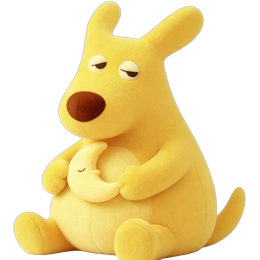
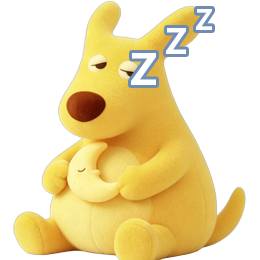
feat(skin+behavior) 1.1.1: feidudu sleep ZZZ + 修扩展帧/呼吸崩溃 + 状态机更活跃

Changed region(s): [[0.4923, 0.0, 0.8308, 0.3385]]

diff --git a/pet/window.py b/pet/window.py
@@ -38,26 +38,9 @@ class PetWindow(QWidget):
 
         self.scale = float(config.get("scale"))
 
-        # 加载所有精灵帧，缺失帧回退 idle
+        # 加载所有精灵帧（基础 + 扩展），缺失基础帧回退 idle，缺失扩展帧跳过
         self.frames: dict[str, QPixmap] = {}
-        idle = None
-        for name in FRAME_NAMES:
-            pix = self._load(f"{name}.png")
-            self.frames[name] = self._fit(pix) if not pix.isNull() else None
-            if name == "idle":
-                idle = self.frames["idle"]
-        if idle is None:
-            idle = QPixmap(120, 120)
-            idle.fill(Qt.GlobalColor.transparent)
-            self.frames["idle"] = idle
-        for name in FRAME_NAMES:
-            if self.frames[name] is None:
-                self.frames[name] = idle
-        # 加载扩展动作帧（存在则用，不存在时跳过，_current_frame_name 会回退 idle）
-        for name in EXTRA_FRAME_NAMES:
-            pix = self._load(f"{name}.png")
-            if not pix.isNull():
-                self.frames[name] = self._fit(pix)
+        idle = self._load_all_frames()
         self._rebuild_breath_cache()
 
         self._margin = 8
@@ -167,6 +150,28 @@ class PetWindow(QWidget):
         self._unread_timers = {}
 
     # ---------- 素材 ----------
+    def _load_all_frames(self) -> QPixmap:
+        """加载当前皮肤的全部基础+扩展帧；缺失基础帧回退 idle，缺失扩展帧跳过。
+        返回 idle 帧（用于尺寸/位置参考）。"""
+        self.frames: dict[str, QPixmap] = {}
+        for name in FRAME_NAMES:
+            pix = self._load(f"{name}.png")
+            self.frames[name] = self._fit(pix) if not pix.isNull() else None
+        if self.frames["idle"] is None:
+            idle = QPixmap(120, 120)
+            idle.fill(Qt.GlobalColor.transparent)
+            self.frames["idle"] = idle
+        idle = self.frames["idle"]
+        for name in FRAME_NAMES:
+            if self.frames[name] is None:
+                self.frames[name] = idle
+        # 扩展动作帧（存在则用，不存在时跳过，_current_frame_name 会回退 idle）
+        for name in EXTRA_FRAME_NAMES:
+            pix = self._load(f"{name}.png")
+            if not pix.isNull():
+                self.frames[name] = self._fit(pix)
+        return idle
+
     def _load(self, name: str) -> QPixmap:
         skin = config.current_skin()
         if skin == "default":
@@ -184,21 +189,7 @@ class PetWindow(QWidget):
         if name == config.current_skin():
             return  # 已是当前皮肤
         config.set_value("skin", name)
-        # 重新加载所有帧
-        self.frames: dict[str, QPixmap] = {}
-        idle = None
-        for frame_name in FRAME_NAMES:
-            pix = self._load(f"{frame_name}.png")
-            self.frames[frame_name] = self._fit(pix) if not pix.isNull() else None
-            if frame_name == "idle":
-                idle = self.frames["idle"]
-        if idle is None:
-            idle = QPixmap(120, 120)
-            idle.fill(Qt.GlobalColor.transparent)
-            self.frames["idle"] = idle
-        for frame_name in FRAME_NAMES:
-            if self.frames[frame_name] is None:
-                self.frames[frame_name] = idle
+        idle = self._load_all_frames()
         self._rebuild_breath_cache()
         # 保持窗口中心调整尺寸
         center = self.geometry().center()
@@ -223,17 +214,7 @@ class PetWindow(QWidget):
         """切换宠物大小：重新加载帧、保持窗口中心不变调整尺寸。"""
         self.scale = max(0.3, min(2.0, float(scale)))
         config.set_value("scale", self.scale)
-        idle = None
-        for name in FRAME_NAMES:
-            pix = self._load(f"{name}.png")
-            self.frames[name] = self._fit(pix) if not pix.isNull() else None
-            if name == "idle":
-                idle = self.frames[name]
-        if idle is None:
-            idle = self.frames["idle"]
-        for name in FRAME_NAMES:
-            if self.frames[name] is None:
-                self.frames[name] = idle
+        idle = self._load_all_frames()
         self._rebuild_breath_cache()
         center = self.geometry().center()
         self.setFixedSize(idle.width() + self._margin * 2, idle.height() + self._margin * 2)
@@ -242,10 +223,13 @@ class PetWindow(QWidget):
         self._save_pos()
 
     def _rebuild_breath_cache(self) -> None:
-        """预生成各帧的缩放级别缓存，供呼吸动画直接取用。"""
+        """预生成各帧的缩放级别缓存，供呼吸动画直接取用。
+        覆盖所有已加载帧（含扩展帧 drink/think/laugh），避免 _current_frame_name
+        返回扩展帧时 KeyError。"""
         self._breath_cache = {}
-        for name in FRAME_NAMES:
-            base = self.frames[name]
+        for name, base in self.frames.items():
+            if base is None or base.isNull():
+                continue
             self._breath_cache[name] = [
                 base.scaled(
                     max(1, int(base.width() * s)),

diff --git a/scripts/draw_zzz.py b/scripts/draw_zzz.py
@@ -1,0 +1,63 @@
+"""在皮肤 sleep.png 上绘制 ZZZ（三个 Z 从左下到右上递减，模拟呼噜冒出）。
+
+参考默认企鹅第十二轮做法：白色 fill + 蓝灰描边 (110,140,180)，
+微软雅黑粗体 (msyhbd.ttc)，位置在画面右上角空白处（不挡主体）。
+
+用法：
+    python scripts/draw_zzz.py feidudu          # 处理 assets/skins/feidudu/sleep.png
+    python scripts/draw_zzz.py default          # 处理 assets/skins/sleep.png
+"""
+import os
+import sys
+
+from PIL import Image, ImageDraw, ImageFont
+
+
+# ZZZ 配置：每个 Z 是 (x_start, y_start, font_size)
+# 三个 Z 从左下到右上递进，模拟从主体呼出飘向天空
+SKIN_ZZZ = {
+    # 三个 Z 由下到上、由大到小：最靠近主体在左下，最大；最远离主体在右上，最小
+    "feidudu": [(130, 40, 42), (165, 18, 34), (195, 0, 28)],
+    "default": [(100, 24, 50), (132, 58, 42), (162, 90, 36)],  # 原企鹅（保留兼容）
+}
+FILL = (255, 255, 255, 255)
+STROKE = (110, 140, 180, 255)
+STROKE_W = 3
+FONT_PATH = "C:/Windows/Fonts/msyhbd.ttc"
+
+
+def draw_zzz(skin: str) -> None:
+    root = os.path.dirname(os.path.dirname(os.path.abspath(__file__)))
+    if skin == "default":
+        png = os.path.join(root, "assets", "skins", "sleep.png")
+    else:
+        png = os.path.join(root, "assets", "skins", skin, "sleep.png")
+    if not os.path.exists(png):
+        print(f"[ERR] 找不到 {png}")
+        sys.exit(1)
+    im = Image.open(png).convert("RGBA")
+    overlay = Image.new("RGBA", im.size, (0, 0, 0, 0))
+    draw = ImageDraw.Draw(overlay)
+    for x, y, size in SKIN_ZZZ[skin]:
+        font = ImageFont.truetype(FONT_PATH, size)
+        # 右对齐 + 顶对齐：先用 textbbox 算宽高再贴
+        bbox = draw.textbbox((0, 0), "Z", font=font, stroke_width=STROKE_W)
+        w, h = bbox[2] - bbox[0], bbox[3] - bbox[1]
+        draw.text(
+            (x, y), "Z",
+            font=font,
+            fill=FILL,
+            stroke_width=STROKE_W,
+            stroke_fill=STROKE,
+        )
+    out = Image.alpha_composite(im, overlay)
+    out.save(png)
+    print(f"[OK] {skin} sleep.png 已绘制 ZZZ → {png}")
+
+
+if __name__ == "__main__":
+    skin = sys.argv[1] if len(sys.argv) > 1 else "feidudu"
+    if skin not in SKIN_ZZZ:
+        print(f"[ERR] 未知皮肤 {skin}，可选: {list(SKIN_ZZZ.keys())}")
+        sys.exit(1)
+    draw_zzz(skin)

diff --git a/pet/brain.py b/pet/brain.py
@@ -14,18 +14,21 @@ class PetBrain(QObject):
 
     state_changed = Signal(str)
 
-    # 各状态持续时长（毫秒）：睡眠是主要状态（长时间），活动短暂
+    # 各状态持续时长（毫秒）：睡眠相对短（30-80s），让宠物更常醒来活动
     DURATIONS = {
-        IDLE: (8000, 20000),
-        WALK: (6000, 15000),
+        IDLE: (8000, 18000),
+        WALK: (8000, 16000),
         JUMP: (1500, 2500),
-        SLEEP: (90000, 240000),
-        CHAT: (4000, 6000),
-        WANDER: (2000, 4000),
+        SLEEP: (30000, 80000),   # 原本 90-240s 太长，缩到 30-80s
+        CHAT: (4500, 7000),
+        WANDER: (2500, 5000),
     }
 
-    # 醒来后的活动选项
-    AWAKE_ACTIONS = [IDLE, WALK, JUMP, CHAT]
+    # 醒来后的活动选项（含 WANDER 散步到随机位置，让宠物真正"会移动"）
+    AWAKE_ACTIONS = [IDLE, WALK, JUMP, CHAT, WANDER, WANDER]  # WANDER 加权
+
+    # 活动结束后的回睡概率（0.45 = 大半时间在外面活动，只有不到一半回去睡）
+    RESLEEP_PROB = 0.45
 
     def __init__(self, parent=None):
         super().__init__(parent)
@@ -61,8 +64,8 @@ class PetBrain(QObject):
             # 睡醒了，进入短暂活动
             nxt = random.choice(self.AWAKE_ACTIONS)
         else:
-            # 活动结束，大概率回去睡觉，偶尔继续活动
-            if random.random() < 0.8:
+            # 活动结束，按概率决定回睡还是继续活动（45% 回睡，比原来 80% 少很多）
+            if random.random() < self.RESLEEP_PROB:
                 nxt = self.SLEEP
             else:
                 nxt = random.choice(self.AWAKE_ACTIONS)

diff --git a/CHANGELOG.md b/CHANGELOG.md
@@ -5,6 +5,38 @@
 格式基于 [Keep a Changelog](https://keepachangelog.com/zh-CN/1.0.0/)，
 版本号遵循 [语义化版本](https://semver.org/lang/zh-CN/)。
 
+## [1.1.1] - 2026-09-01
+
+> 本次聚焦「体验一致性」：feidudu 皮肤补齐睡觉 ZZZ 视觉、修复扩展帧
+> 在切肤/缩放后丢失的隐患与呼吸缓存崩溃风险、状态机改为更活泼的
+> 节奏（缩短睡眠、降低回睡概率、增加散步）。
+
+### 新增
+
+- **feidudu 睡觉帧加 ZZZ**：用 PIL 在 `assets/skins/feidudu/sleep.png`
+  右上方绘制三个 Z（白底蓝灰描边，由下到上由大到小），模拟从鼻子
+  呼出飘向天空。`scripts/draw_zzz.py` 通用（也支持原企鹅 sleep.png，
+  作为可重用的素材工具）。原图备份在 `raw/skins_backup/feidudu_sleep_orig.png`。
+
+### 修复
+
+- **扩展帧（drink/think/laugh）在切肤/缩放后丢失**：`set_skin` 和
+  `set_scale` 重新加载帧时只重建基础 6 帧，没带扩展帧，导致切到
+  feidudu 后 drink 帧消失、喝水提醒无法显示 drink 图。抽
+  `_load_all_frames()` 统一加载基础+扩展帧，3 个入口共用。
+- **呼吸缓存缺扩展帧，触发 `KeyError` 崩溃**：`_rebuild_breath_cache`
+  只缓存 6 个基础帧；`_current_frame_name()` 返回 drink/think/laugh
+  时 `_breath_cache[name]` 抛 `KeyError`，呼吸 timer 异常→桌宠静默
+  卡死。改为对所有已加载帧都建呼吸缓存。
+
+### 变更
+
+- **状态机更活跃**（`pet/brain.py`）：
+  - `SLEEP` 时长 90-240s → **30-80s**（睡眠为主改为睡眠短暂）
+  - 活动结束回睡概率 0.8 → **0.45**（多半时间在外面活动）
+  - `AWAKE_ACTIONS` 加入 `WANDER`（散步到随机位置，×2 加权），
+    解决了"只会睡觉不会移动"的问题
+
 ## [1.1.0] - 2026-08-30
 
 > 本次更新围绕「换肤」与「互动性」展开：新增多皮肤支持、全新的
